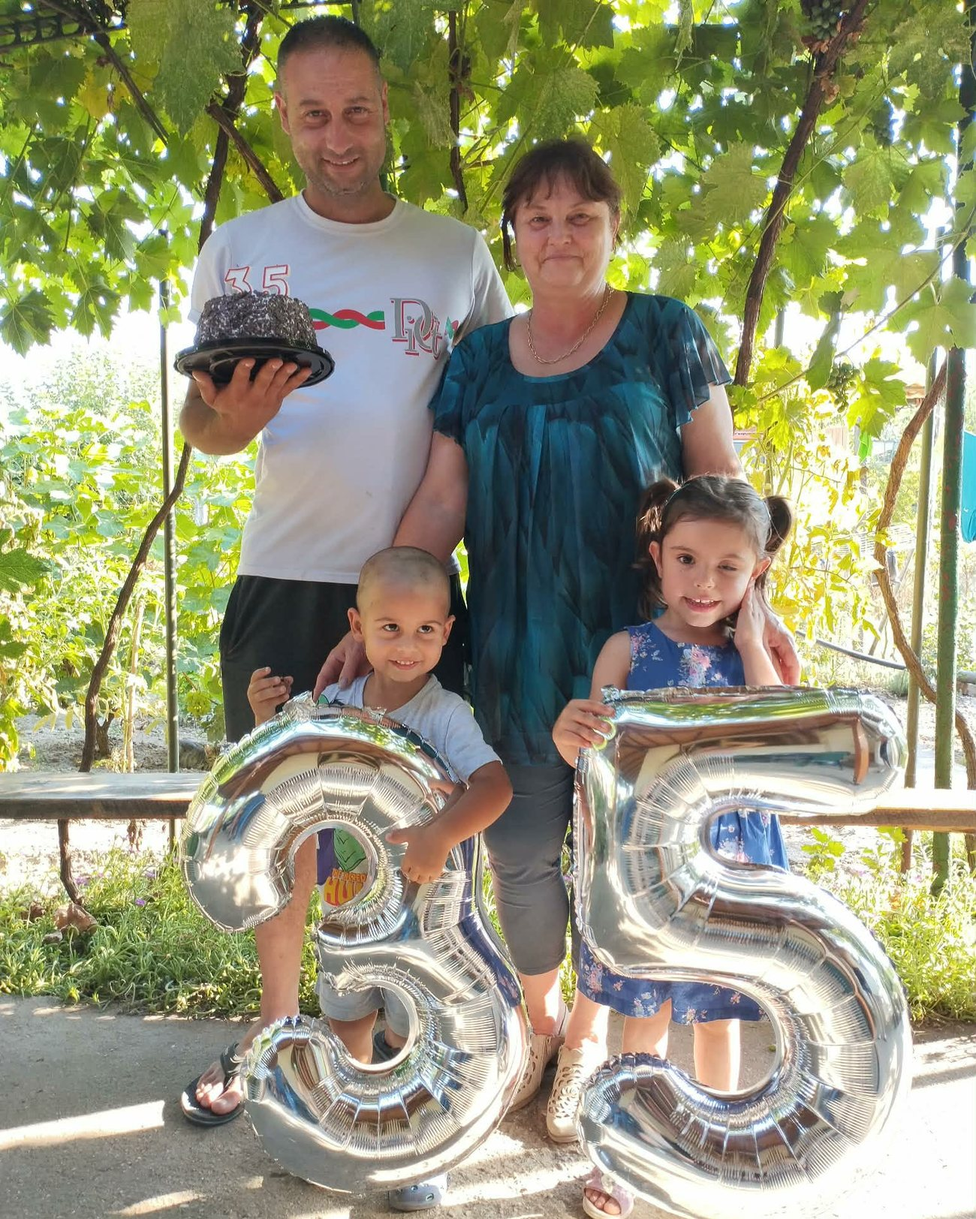
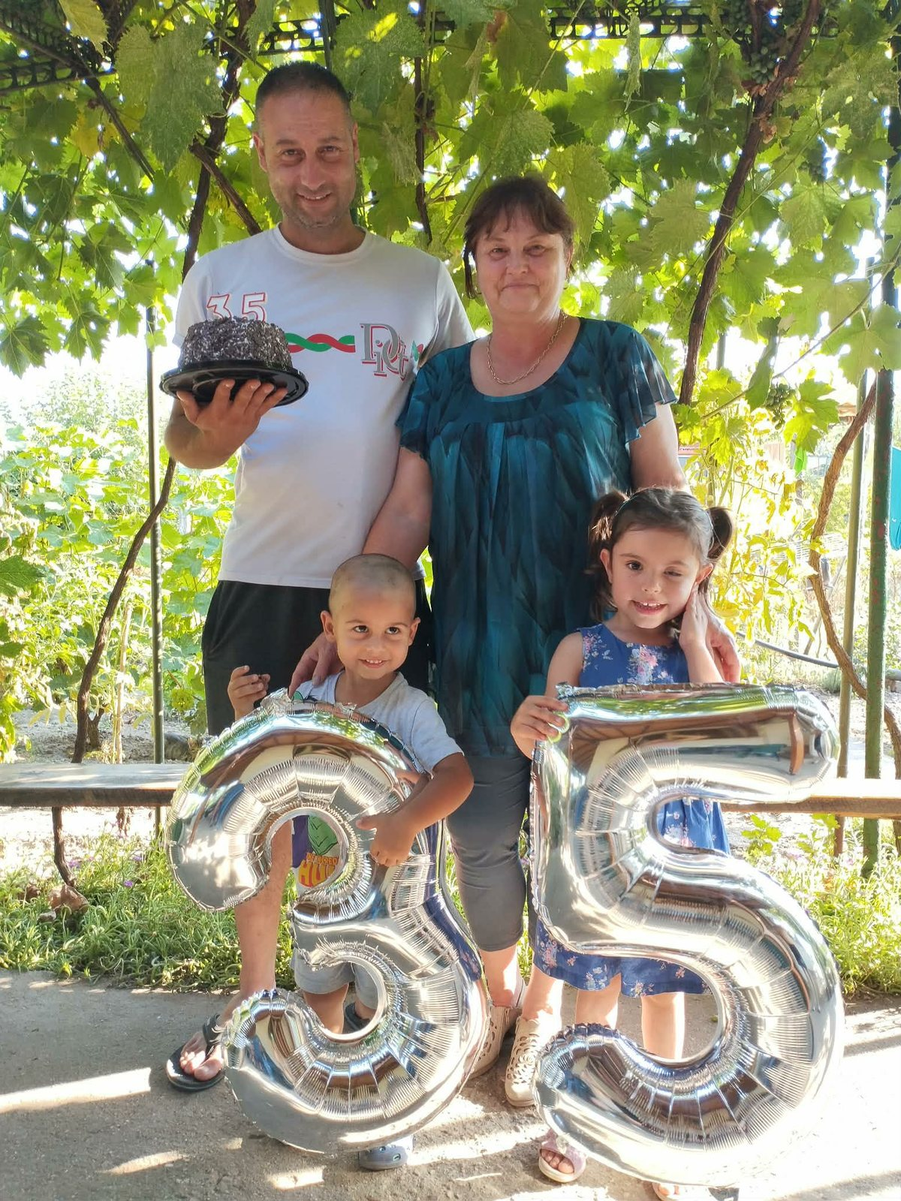
Семейната снимка се показва цяла, без рязане над главите

diff --git a/index.html b/index.html
@@ -226,7 +226,7 @@
   <!-- СЕМЕЙСТВОТО -->
   <section>
     <div class="single">
-      <figure class="r"><div class="frame"><img src="photos/p3.jpg" alt="Семейството" loading="lazy"></div></figure>
+      <figure class="r"><div class="frame tall"><img src="photos/p3.jpg" alt="Семейството" loading="lazy"></div></figure>
     </div>
   </section>
 
